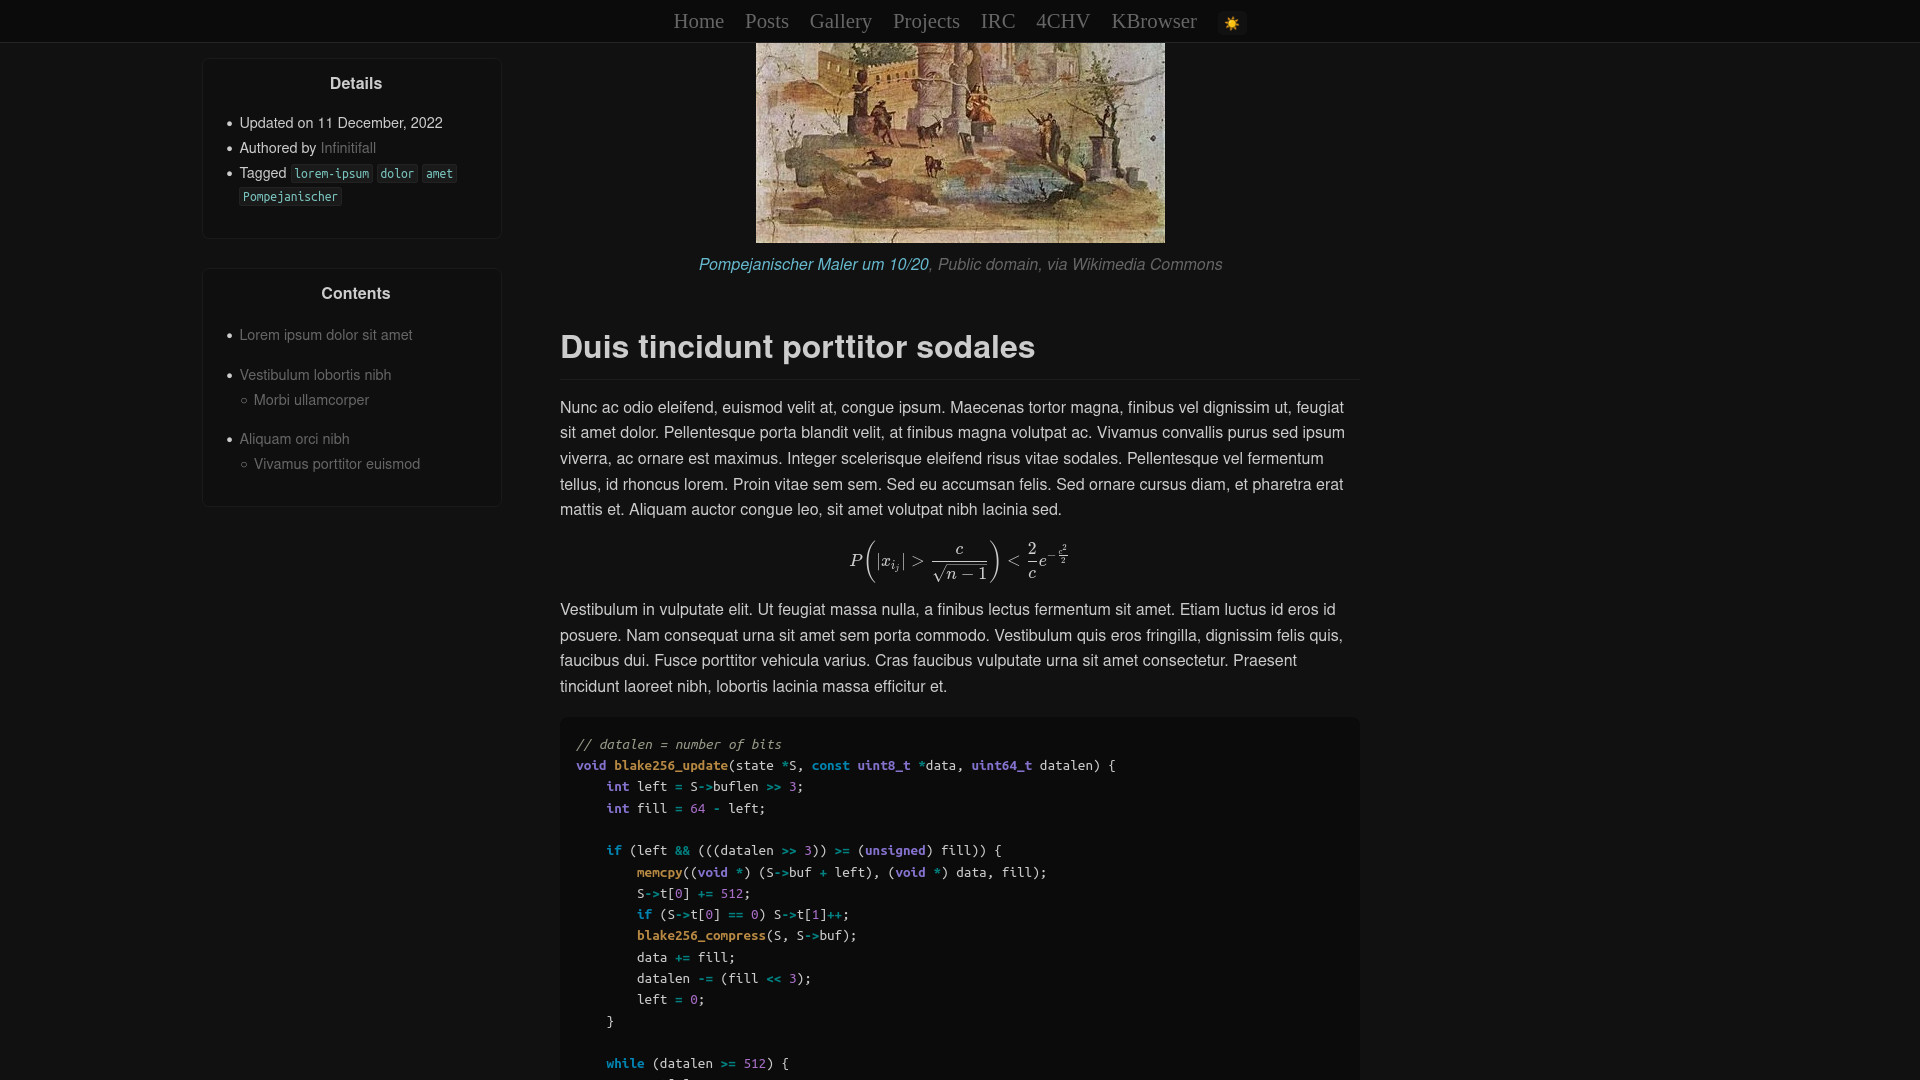
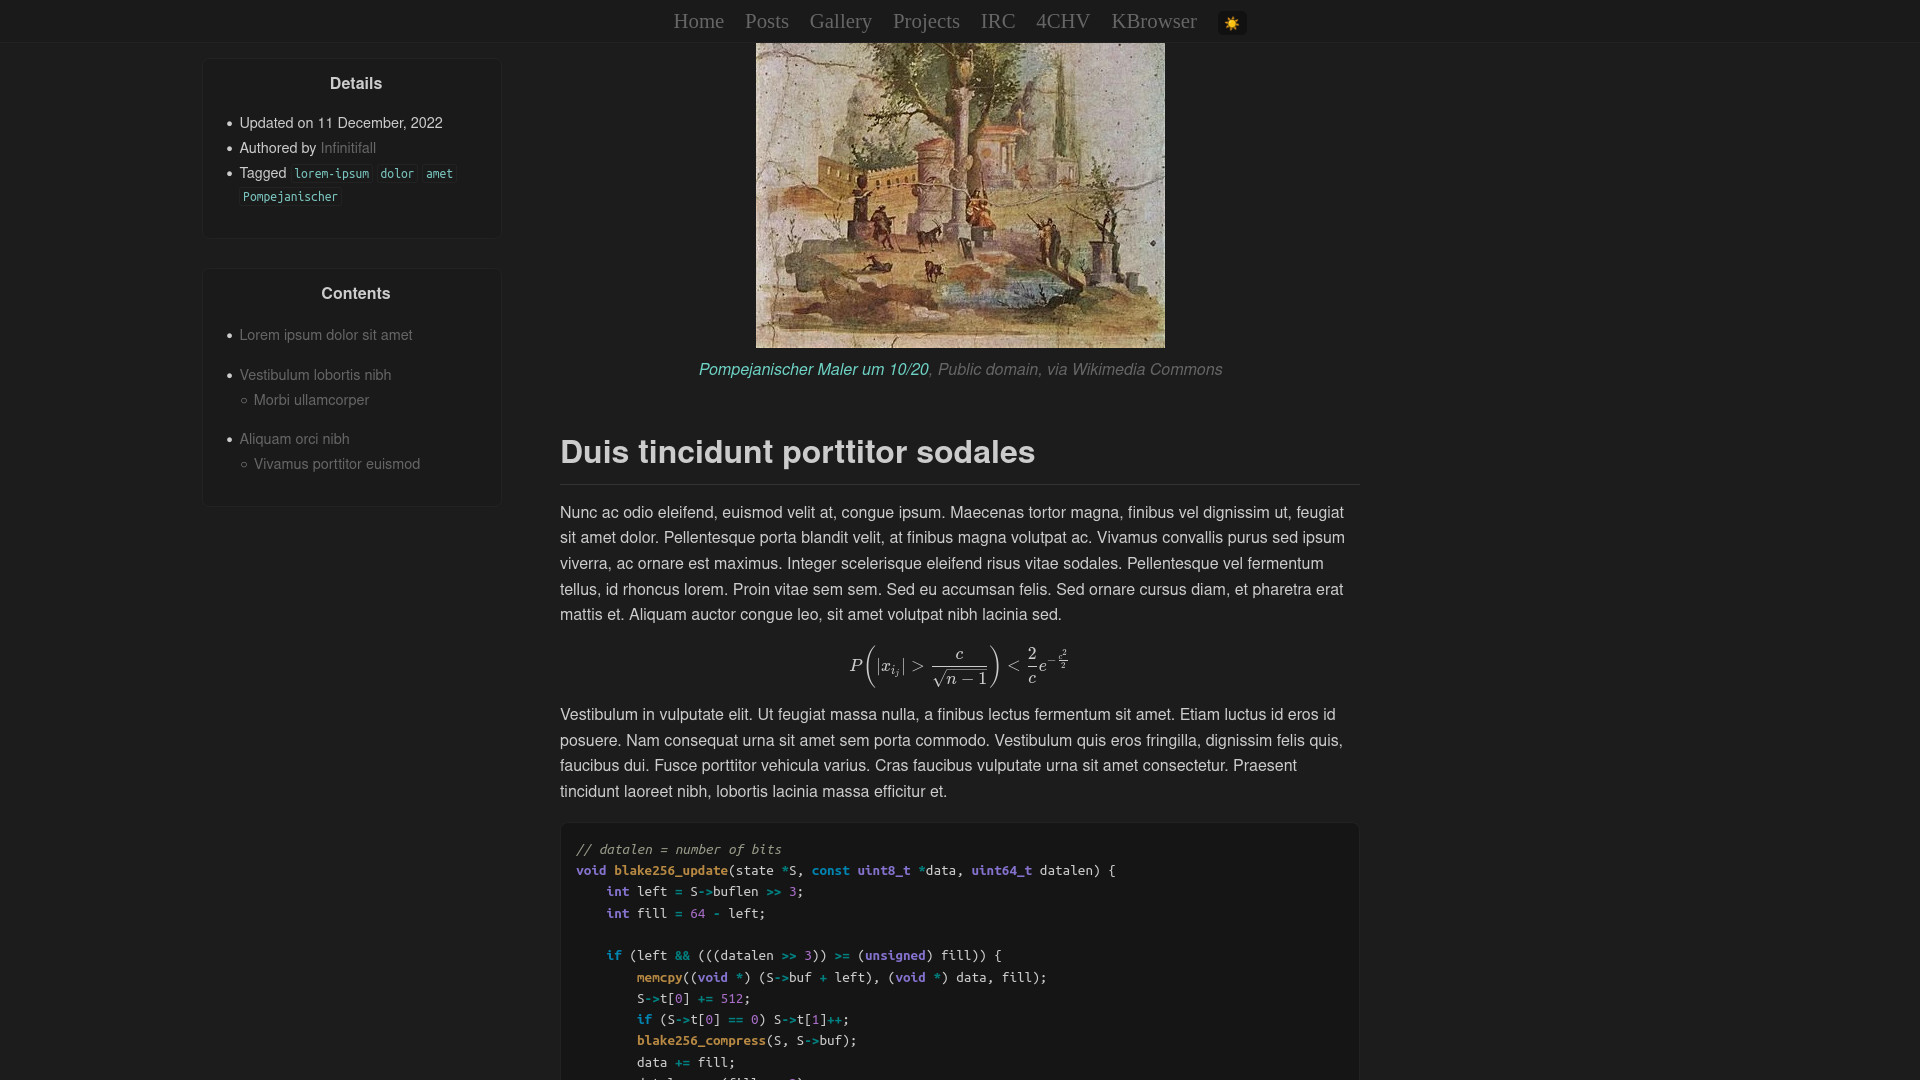
further refined dark theme

Changed region(s): [[0.2812, 0.0306, 0.6875, 1.0]]

diff --git a/_sass/malis/_layout.scss b/_sass/malis/_layout.scss
@@ -19,12 +19,12 @@
 
   .wrapper-top {
     padding: 0.2em 0;
-    border-bottom: 1px $bg-1 solid;
+    border-bottom: 1px $bg-sidebar-border solid;
     padding-bottom: 0.2em;
 
     position: fixed;
     width: 100%;
-    background-color: $bg-0;
+    background-color: $bg-sidebar;
     top: 0;
     z-index: 1;
 
@@ -57,7 +57,8 @@
     max-width: 100%;
     min-height: 1em;
     padding: 0 3vw;
-    border-top: 1px $bg-1 solid;
+    border-top: 1px $bg-sidebar-border solid;
+    background: $bg-sidebar;
     padding-bottom: 0.1em;
   }
 
@@ -306,6 +307,7 @@
       display: block;
       border: 1px solid $bg-1;
       border-radius: 0.5em;
+      background-color: $bg-sidebar-border;
       padding: 1em 1em;
       margin-bottom: 2em;
       max-width: MIN($content-width, $content-max-width);
@@ -358,7 +360,7 @@
 
   .wrapper-top {
     padding: 0.2em 0;
-    border-bottom: 1px lighten($bg-highlight-dark, 10%) solid;
+    border-bottom: 1px $bg-sidebar-border-dark solid;
     padding-bottom: 0.2em;
 
     font-family: $navbar-font-family-dark;
@@ -366,7 +368,7 @@
 
     position: fixed;
     width: 100%;
-    background-color: $bg-highlight-dark;
+    background-color: $bg-sidebar-dark;
     top: 0;
     z-index: 1;
 
@@ -396,8 +398,8 @@
     max-width: 100%;
     min-height: 1em;
     padding: 0 3vw;
-    border-top: 1px transparent solid;
-    background: $bg-highlight-dark;
+    border-top: 1px $bg-sidebar-border-dark solid;
+    background: $bg-sidebar-dark;
     padding-bottom: 0.1em;
   }
 
@@ -645,7 +647,7 @@
     @media only screen and (max-width: $screen-width-inflection-dark) {
       display: block;
       border: 1px transparent solid;
-      background-color: $bg-highlight-dark;
+      background-color: $bg-sidebar-border-dark;
       border-radius: 0.5em;
       padding: 1em 1em;
       margin-bottom: 2em;

diff --git a/_sass/malis.scss b/_sass/malis.scss
@@ -181,8 +181,8 @@ $katex-font-size-dark:  $base-font-size * 1.1;
 $heading-text-dark: #ccc;
 $base-text-dark: #ccc;
 $grey-text-dark: #666;
-$link-1-dark: #67b9ce;
-$link-2-dark: #67b9ce;
+$link-1-dark: #6ed3c5;
+$link-2-dark: #6ed3c5;
 
 $code-1-dark: #ce71ba;
 $bg-code-dark:#1a1a1a;
@@ -190,15 +190,15 @@ $bg-code-dark:#1a1a1a;
 $code-tag-dark: #7ac5bf;
 $bg-tag-dark:#1a1a1a;
 
-$bg-0-dark:   #111;
-$bg-1-dark:   #1c1c1c;
-$bg-highlight-dark:   #0b0b0b;
+$bg-0-dark:   #1c1c1c;
+$bg-1-dark:   #333;
+$bg-highlight-dark:   #151515;
 
-$bg-quote-dark:   #0b0b0b;
-$bg-table-dark: #0b0b0b;
+$bg-quote-dark:   #151515;
+$bg-table-dark: #151515;
 $bg-pre-border-dark: #222;
-$bg-sidebar-dark: #0f0f0f;
-$bg-sidebar-border-dark: #1a1a1a;
+$bg-sidebar-dark: #1a1a1a;
+$bg-sidebar-border-dark: #222;
 
 $button-1-dark: #9371b8;
 $button-1-bg-dark: #111;

diff --git a/_sass/malis/_base.scss b/_sass/malis/_base.scss
@@ -60,12 +60,8 @@
     border-collapse: collapse;
   }
 
-  tr:nth-child(even) {
+  tr {
     background-color: $bg-table;
-  }
-
-  tr:nth-child(odd) {
-    background-color: lighten($bg-table, 2.5%);
   }
 
   thead > tr {
@@ -264,11 +260,7 @@
     border-collapse: collapse;
   }
 
-  tr:nth-child(even) {
-    background-color: lighten($bg-table-dark, 5%);
-  }
-
-  tr:nth-child(odd) {
+  tr {
     background-color: $bg-table-dark;
   }
 
@@ -298,7 +290,7 @@
   pre {
     overflow-x: auto;
     line-height: $code-line-height-dark;
-    border: 1px transparent solid;
+    border: 1px $bg-pre-border-dark solid;
 
     > code {
       color: $code-1-dark;
